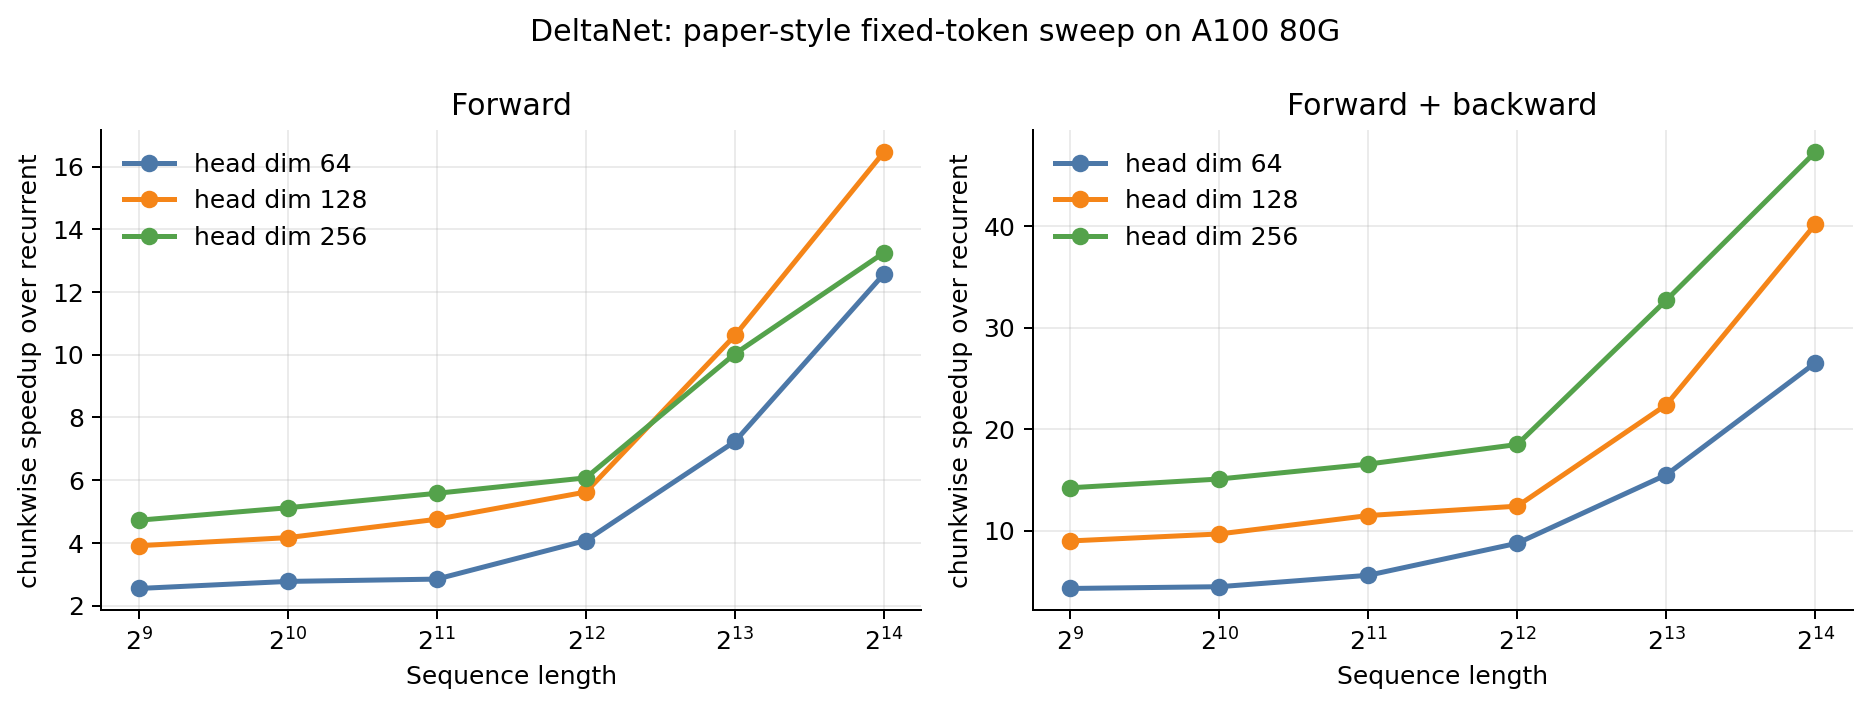
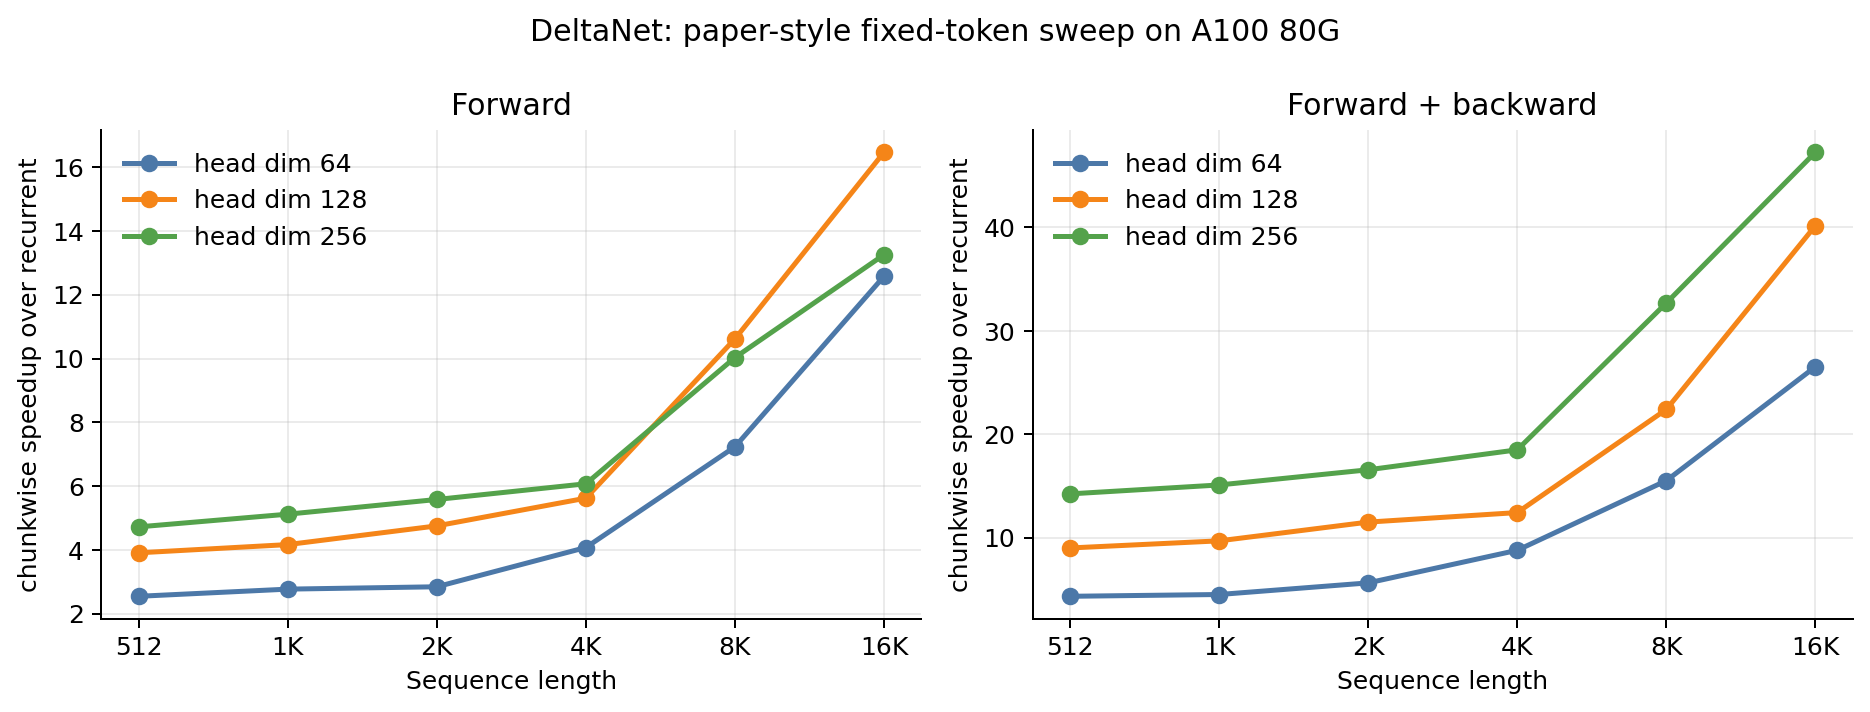
docs: finalize validated reproduction results

diff --git a/tutorial_code/scripts/render_paper_results.py b/tutorial_code/scripts/render_paper_results.py
@@ -33,6 +33,10 @@ def style_axis(ax, *, xlabel: str, ylabel: str) -> None:
     ax.spines[["top", "right"]].set_visible(False)
 
 
+def length_labels(lengths: list[int]) -> list[str]:
+    return [f"{length // 1024}K" if length >= 1024 else str(length) for length in lengths]
+
+
 def render_delta(data: dict, output: Path) -> None:
     rows = [row for row in data["rows"] if row["status"] == "ok"]
     fig, axes = plt.subplots(1, 2, figsize=(10.5, 4.0), sharey=False)
@@ -60,6 +64,8 @@ def render_delta(data: dict, output: Path) -> None:
                 color=COLORS[str(dim)],
             )
         ax.set_xscale("log", base=2)
+        ax.set_xticks(lengths)
+        ax.set_xticklabels(length_labels(lengths))
         ax.set_title(title)
         style_axis(ax, xlabel="Sequence length", ylabel="chunkwise speedup over recurrent")
         ax.legend(frameon=False)
@@ -87,8 +93,11 @@ def render_kimi(data: dict, output: Path) -> None:
                 label=label,
                 color=color,
             )
+            lengths = [row["shape"]["T"] for row in selected]
         ax.set_xscale("log", base=2)
         ax.set_yscale("log", base=2)
+        ax.set_xticks(lengths)
+        ax.set_xticklabels(length_labels(lengths))
         ax.set_title(title)
         style_axis(ax, xlabel="Sequence length", ylabel="Median latency (ms)")
         ax.legend(frameon=False)
@@ -144,8 +153,11 @@ def render_nsa(data: dict, output: Path) -> None:
                 label=label,
                 color=color,
             )
+            lengths = [row["shape"]["T"] for row in selected]
         ax.set_xscale("log", base=2)
         ax.set_yscale("log", base=2)
+        ax.set_xticks(lengths)
+        ax.set_xticklabels(length_labels(lengths))
         ax.set_title(title)
         style_axis(ax, xlabel="Sequence length", ylabel="Median latency (ms)")
         ax.legend(frameon=False)

diff --git a/work/report/final.md b/work/report/final.md
@@ -699,11 +699,11 @@ kernel 时间和总时间怎样变化。`ncu` 的 DRAM throughput、achieved occ
 | 教程仓库 | `study/sparse-linear-attention`；paper driver 从 `97f750d` 引入，NSA rerun 为 `59110bb` |
 | FLA 仓库 | `~/sparse_linear/flash-linear-attention` |
 | FLA commit | `d1ce07369d581813553f30a750af3b6b5f9af6a9` |
-| 核心作业 | operator `46740`；MQAR `46741`；NSA rerun `46839`；profiler `46745/46842` |
+| 核心作业 | operator `46740`；MQAR `46741`；NSA `46839` 与 64K confirm `46856`；profiler `46745/46842` |
 | GPU | NVIDIA A100-SXM4-80GB（81151.75 MiB） |
 | 软件 | Python 3.12.13；PyTorch 2.11.0+cu128；CUDA runtime 12.8；Triton 3.6.0 |
 | Python 环境 | `~/sparse_linear/.envs/sla-tutorial-py312` |
-| 原始产物 | 107：`artifacts/paper-46740/`、`artifacts/mqar-46741/`、`artifacts/nsa-46839/`、`artifacts/profile-*` |
+| 原始产物 | 107：`artifacts/paper-46740/`、`artifacts/sla-kda-correct-46848.out`、`artifacts/mqar-46741/`、`artifacts/nsa-46839/`、`artifacts/nsa-confirm-46856.json`、`artifacts/profile-*` |
 | 可提交记录 | [`work/runs/paper-reproduction-2026-08-28.md`](https://github.com/Huasushis/sparse-linear-attention/blob/study/sparse-linear-attention/work/runs/paper-reproduction-2026-08-28.md) |
 
 作业启动日志记录计算节点环境。`46740` 运行期间仓库 HEAD 随后同步到 `562fbbf`，而
@@ -752,13 +752,15 @@ FLA 官方测试以 naive/reference 实现为基准，同时检查 output、fina
 | 算子 | 覆盖内容 | 结果 |
 | --- | --- | ---: |
 | GDN chunk | chunk 16/32/64；`o, ht, dq, dk, dv, dbeta, dg, dh0` | 3 passed |
-| KDA chunk | channel gate；`o, ht` 与全部输入梯度 | 运行记录见 job `46848` |
+| KDA chunk | FP16/BF16、channel gate、GVA、chunk 32/64；`o, ht` 与全部输入梯度 | 16 passed |
 | DPLR chunk | 多个 B/T/H/D、safe gate、recompute；全部输入梯度 | 11 passed |
 | NSA selected | D=60/64/100/128、GQA、block 32；`o,dq,dk,dv` | 6 passed |
 
 例如 NSA `B=3,T=1024,Hkv=2,Hq=32,D=128` 的 BF16 测试中，output 最大绝对差
-`0.001953`，`dK/dV` 最大绝对差 `0.007812`；DPLR 测试由相对误差规则通过全部梯度。
-这些 correctness gate 通过后才执行长序列计时。
+`0.001953`，`dK/dV` 最大绝对差 `0.007812`。KDA 最后一组
+`B=2,T=1024,H/HV=2/8,D=128,BF16` 同时覆盖 GVA、L2 norm 和 kernel 内 gate，output
+最大绝对差 `0.001465`，所有输入梯度按官方误差规则通过。这些 correctness gate 通过后
+才执行长序列计时。
 
 ### 8.2 DeltaNet：复现 recurrent/chunkwise speedup
 
@@ -837,12 +839,20 @@ key-value 映射。代价是本实验中参数量多 5.5%，训练吞吐低约 2
 
 ![NSA 长序列前向与前反向时间](figures/nsa-long-sequence.png)
 
-64K 时，给定索引的 selected kernel 在 forward 和 forward+backward 上分别比 dense 快
-9.27× 与 6.91×；把 compression/top-k 加入以后，完整路径仍快 3.24× 与 2.57×。在 8K
-时 selector 路径的 forward 与 dense 接近，forward+backward 约为 dense 的 1.96 倍；
-到 32K 才出现完整前反向加速。selector 占比随着长度变化：selected forward 从 37.0 ms
-增加到完整路径 105.9 ms，说明动态稀疏的主要优化空间已经从 attention kernel 转移到
-compression、top-k 和 index 生成。
+`46839` 的 64K 点来自一个 100 ms repeat 窗口；dense backward 单次已经超过该窗口。为此
+另在 A100 节点 `anode02` 上用 1000 ms warmup、6500 ms repeat 重测 64K：
+
+| 64K confirm | dense | selected | + selector | selected speedup | 完整路径 speedup |
+| --- | ---: | ---: | ---: | ---: | ---: |
+| forward | 326.374 | 23.417 | 59.743 | 13.94× | 5.46× |
+| forward+backward | 1131.922 | 139.381 | 332.676 | 8.12× | 3.40× |
+
+两张 A100 上，64K selected forward speedup 落在 9.27×--13.94×，完整路径为
+3.24×--5.46×；forward+backward 分别为 6.91×--8.12× 和 2.57×--3.40×。同型号节点
+仍会受时钟、共置负载和 Triton autotune 选择影响，因此曲线用于说明扩展趋势，精确回归
+应固定节点并锁定功耗/时钟。两次实验都显示 8K selector 路径接近或慢于 dense，32K 后
+完整前反向开始加速；动态稀疏的主要优化空间已从 selected attention 转移到 compression、
+top-k 和 index 生成。
 
 64K forward+backward 的算子额外峰值为：dense 8352 MiB、selected 3104 MiB、selector
 完整路径 7234 MiB。selected kernel 的 activation/gradient 峰值降低 2.69×；compression
@@ -892,10 +902,11 @@ block selector 减少实际配对。
 2. **KDA 的约束 DPLR 结构同时提高表达力和 kernel 效率。** 长度 8K–64K 时，KDA
    forward 约快 2.2×，forward+backward 约快 1.9×；MQAR 上又从 GDN 的随机水平提高到
    99.88%。
-3. **NSA selected kernel 在长序列上具有明显扩展优势。** 64K 的 selected forward 和
-   forward+backward 分别快 9.27× 与 6.91×，并显著降低 activation/gradient 峰值。
-4. **Selector 是动态 sparse 的主要组成部分。** 64K 加入 compression/top-k 后，NSA 的
-   forward speedup 从 9.27× 变为 3.24×；完整路径的速度仍随序列增长而扩大。
+3. **NSA selected kernel 在长序列上具有明显扩展优势。** 两次 64K 运行中，selected
+   forward 快 9.27×--13.94×，forward+backward 快 6.91×--8.12×，并显著降低
+   activation/gradient 峰值。
+4. **Selector 是动态 sparse 的主要组成部分。** 64K 加入 compression/top-k 后，完整路径
+   forward speedup 为 3.24×--5.46×，仍随序列增长而扩大。
 
 这些结果也说明 theoretical FLOPs、稀疏率和 wall-clock 各自回答不同问题。GPU 上的最终
 速度由矩阵形状、tile、片上空间、索引、前反向算法和 batch 并行度共同决定。

diff --git a/work/runs/paper-reproduction-2026-08-28.md b/work/runs/paper-reproduction-2026-08-28.md
@@ -16,6 +16,7 @@
 - `46740`：FLA 官方测试、DeltaNet Figure 1 路线、Kimi Figure 2 路线、NSA 原始维度探测；
 - `46741`：两层 GDN/KDA MQAR 训练；
 - `46839`：A100/FLA 支持维度的 NSA 8K--64K rerun；
+- `46856`：NSA 64K，1000 ms warmup / 6500 ms repeat 跨节点确认；
 - `46745`、`46842`：DeltaNet、KDA、NSA profiler；
 - `46848`：KDA channel-wise chunk 前反向官方测试。
 
@@ -24,8 +25,10 @@
 ```text
 artifacts/paper-46740/{delta,kimi,nsa}.json
 artifacts/paper-46740/test-{gdn,kda,dplr,nsa}.txt
+artifacts/sla-kda-correct-46848.out
 artifacts/mqar-46741/mqar.json
 artifacts/nsa-46839/nsa.json
+artifacts/nsa-confirm-46856.json
 artifacts/profile-46745/{delta,kda}*.json
 artifacts/profile-46842/{delta,kda,nsa}*.json
 ```
@@ -47,7 +50,7 @@ benchmark driver。NSA rerun 固定在 `59110bb`。
 | 测试 | 结果 |
 | --- | ---: |
 | GDN chunk 16/32/64，output/state/全部梯度 | 3 passed |
-| KDA channel-wise chunk，output/state/全部梯度 | job `46848` |
+| KDA channel-wise chunk，FP16/BF16、GVA、chunk 32/64、output/state/全部梯度 | 16 passed |
 | DPLR chunk 多 shape，output/state/全部梯度 | 11 passed |
 | NSA selected 多 shape，output/dQ/dK/dV | 6 passed |
 
@@ -110,6 +113,13 @@ KDA 在 step 3500/4000/5000 的验证准确率为 55.41%/97.22%/99.29%。
 | 64K | 343.004 | 37.001 | 105.870 | 1291.925 | 186.869 | 502.871 |
 
 64K 额外峰值 MiB：dense `8352`，selected `3104`，selector-included `7234`。
+
+64K 长 repeat 确认（job `46856`，A100 `anode02`）：
+
+| mode | dense | selected | + selector | selected speedup | full speedup |
+| --- | ---: | ---: | ---: | ---: | ---: |
+| fwd | 326.374 | 23.417 | 59.743 | 13.94× | 5.46× |
+| fwd+bwd | 1131.922 | 139.381 | 332.676 | 8.12× | 3.40× |
 
 ## 8. Profiler 摘要
 
